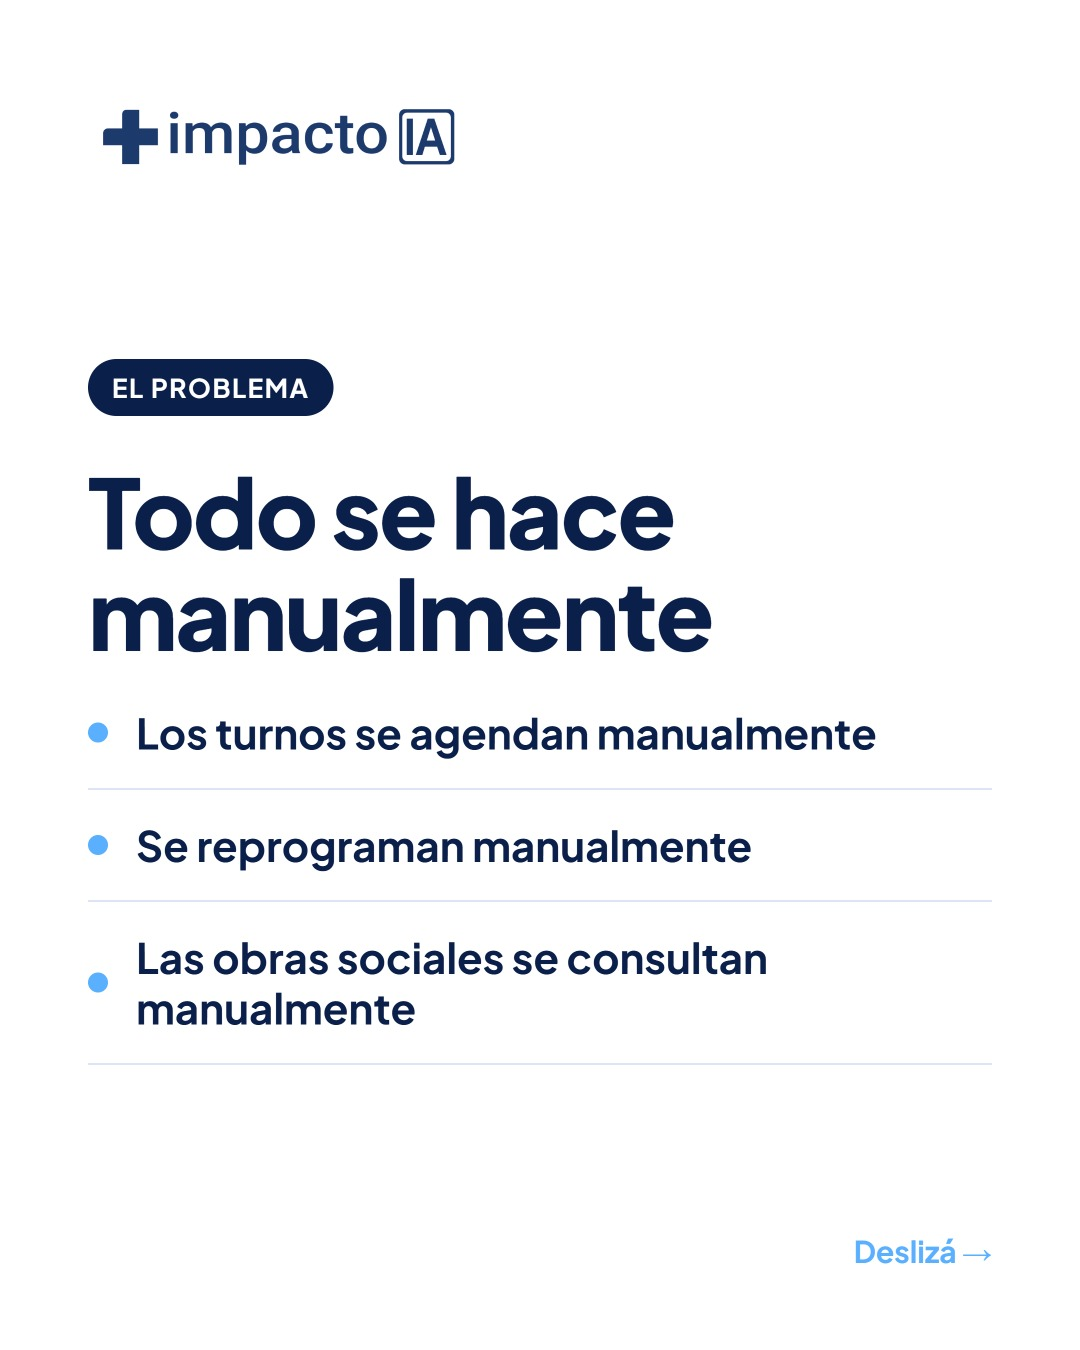
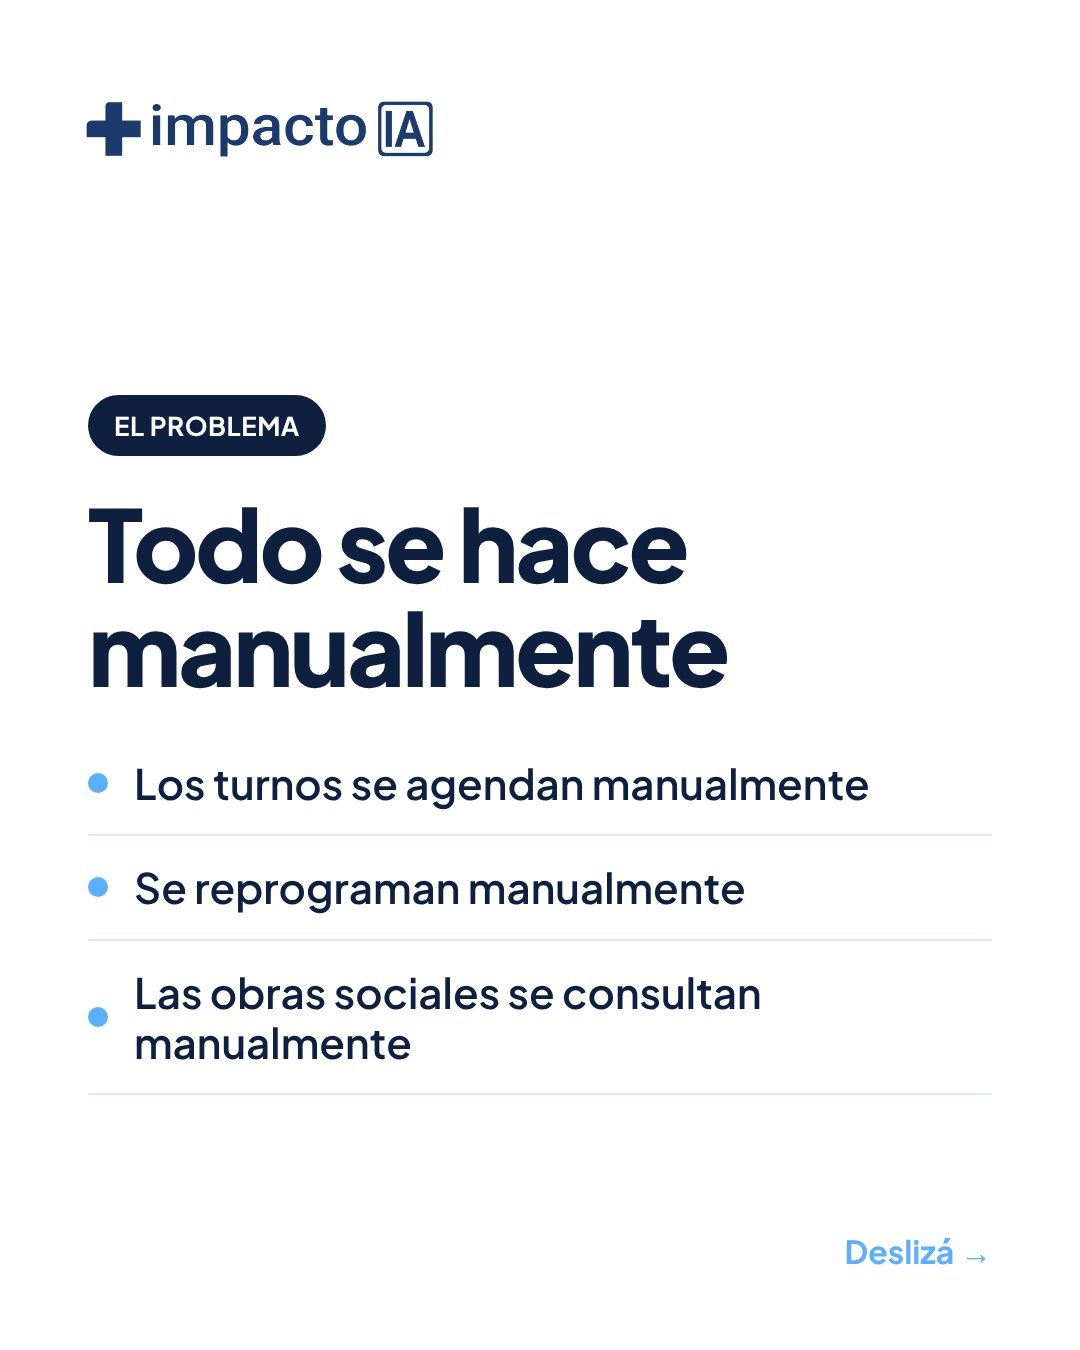
Rehacer placas con la web nueva y ajustar perfil de voz
Claude-Session: https://claude.ai/code/session_01P6REZjkjSGq7Tys6i2ciiy

Changed region(s): [[0.0611, 0.2489, 0.825, 0.8089], [0.0611, 0.0622, 0.4278, 0.1244], [0.7639, 0.9022, 0.8861, 0.9333]]

diff --git a/placas/placas.html b/placas/placas.html
@@ -1,0 +1,43 @@
+<!doctype html><html lang="es-AR"><head><meta charset="utf-8"><title>Placas +impactoIA</title>
+<style>
+@font-face{font-family:PJ;font-weight:500;src:url(assets/plus-jakarta-sans-latin-500-normal.woff2)}
+@font-face{font-family:PJ;font-weight:600;src:url(assets/plus-jakarta-sans-latin-600-normal.woff2)}
+@font-face{font-family:PJ;font-weight:700;src:url(assets/plus-jakarta-sans-latin-700-normal.woff2)}
+@font-face{font-family:PJ;font-weight:800;src:url(assets/plus-jakarta-sans-latin-800-normal.woff2)}
+:root{--navy:#0A1F4A;--ink:#0F1F40;--blue:#5CAEFF;--soft:#EAF0FD;--mut:#4F5F80}
+*{box-sizing:border-box;margin:0}
+body{background:#888;font-family:PJ,sans-serif}
+.s{width:1080px;height:1350px;position:relative;overflow:hidden;padding:88px;display:flex;flex-direction:column;margin-bottom:20px}
+.dark{background:var(--navy);color:#fff}.light{background:#fff;color:var(--ink)}
+.badge{width:112px;height:112px;align-self:flex-start}.logo{height:80px;width:auto;align-self:flex-start;margin-left:-16px}
+.body{margin-top:auto;margin-bottom:auto;padding-top:60px}
+.tag{display:inline-block;font-weight:700;font-size:26px;letter-spacing:.5px;text-transform:uppercase;padding:14px 26px;border-radius:40px;margin-bottom:34px}
+.dark .tag{background:var(--blue);color:var(--navy)}.light .tag{background:var(--ink);color:#fff}
+h1{font-weight:800;font-size:100px;line-height:1.04;letter-spacing:-3px}
+h1.m{font-size:92px}
+.sub{font-size:40px;line-height:1.3;font-weight:500;margin-top:34px;color:#B6C4EC}
+.light .sub{color:var(--mut)}
+.next{position:absolute;right:88px;bottom:78px;font-weight:700;font-size:32px;color:var(--blue)}
+.list{margin-top:34px}.list div{display:flex;gap:26px;align-items:center;font-weight:600;font-size:42px;line-height:1.2;padding:26px 0;border-bottom:2px solid #E3E9F6}
+.dot{flex:none;width:20px;height:20px;border-radius:50%;background:var(--blue)}
+.ck{flex:none;width:40px;color:var(--blue);font-size:44px;font-weight:700}
+.note{background:var(--soft);border-radius:28px;padding:34px 36px;font-weight:600;font-size:36px;line-height:1.3;margin-top:44px}
+.myth{font-weight:700;font-size:50px;line-height:1.2;color:#9FB3E6;text-decoration:line-through;margin:0 0 34px}
+.hr{height:2px;background:#1F3D80;margin:30px 0 36px}
+.tag.m{background:#243E83;color:#fff!important}
+.chips{display:flex;flex-wrap:wrap;gap:22px;margin-top:40px}
+.chip{background:#12306E;border:2px solid #1F3F85;border-radius:26px;padding:28px 38px;font-weight:700;font-size:38px}
+.stat{display:flex;gap:46px;align-items:center;margin-top:60px}
+.stat b{font-weight:800;font-size:230px;letter-spacing:-8px;color:var(--blue);line-height:1}
+.stat span{font-weight:700;font-size:42px;line-height:1.15}
+.src{font-size:26px;font-weight:500;color:#8DA2D6;margin-top:22px}
+.wa{display:inline-flex;gap:24px;align-items:center;background:var(--ink);color:#fff;font-weight:800;font-size:52px;padding:30px 48px;border-radius:70px;margin-top:44px}
+.web{font-weight:700;font-size:34px;color:var(--mut);margin-top:34px}
+</style></head><body>
+<section class="s dark" id="p1"><img class="badge" src="assets/badge.png"><div class="body"><span class="tag">Para clínicas y consultorios</span><h1>Tu clínica pierde pacientes por mensajes sin contestar</h1><p class="sub">Deslizá y mirá cómo resolverlo.</p></div><div class="next">Deslizá →</div></section>
+<section class="s light" id="p2"><img class="logo" src="assets/logo.png"><div class="body"><span class="tag">El problema</span><h1>Todo se hace manualmente</h1><div class="list"><div><i class="dot"></i>Los turnos se agendan manualmente</div><div><i class="dot"></i>Se reprograman manualmente</div><div><i class="dot"></i>Las obras sociales se consultan manualmente</div></div></div><div class="next">Deslizá →</div></section>
+<section class="s dark" id="p3"><img class="badge" src="assets/badge.png"><div class="body"><span class="tag m">Mito</span><p class="myth">“La IA es para empresas grandes y técnicas.”</p><div class="hr"></div><span class="tag">Realidad</span><h1>No necesitás saber de IA.</h1><p class="sub">La implementación la hacemos nosotros. Se conecta por API a tu sistema de gestión actual.</p></div><div class="next">Deslizá →</div></section>
+<section class="s light" id="p4"><img class="logo" src="assets/logo.png"><div class="body"><span class="tag">Tu Empleado IA</span><h1 class="m">Resolvé la recepción por vos</h1><div class="list"><div><span class="ck">✓</span>Agenda, confirma y reprograma turnos</div><div><span class="ck">✓</span>Verifica cobertura y copagos</div><div><span class="ck">✓</span>Gestiona órdenes, recetas y resultados</div></div><div class="note">Y si hace falta una persona, te pasa el caso con todo el contexto.</div></div><div class="next">Deslizá →</div></section>
+<section class="s dark" id="p5"><img class="badge" src="assets/badge.png"><div class="body"><span class="tag">Siempre activo</span><h1 class="m">Atiende las 24 horas en todos tus canales</h1><div class="chips"><div class="chip">WhatsApp</div><div class="chip">Web</div><div class="chip">Email</div><div class="chip">Redes sociales</div></div><div class="stat"><b>93%</b><span>de los turnos gestionados sin intervención humana</span></div><p class="src">Caso Cardiología Hiskin · abril de 2026</p></div><div class="next">Deslizá →</div></section>
+<section class="s light" id="p6"><img class="logo" src="assets/logo.png"><div class="body"><h1>Delegá tu recepción.</h1><p class="sub">Escribinos por WhatsApp y te decimos qué Empleado IA conviene poner a trabajar primero.</p><div class="wa"><svg width="64" height="64" viewBox="0 0 32 32"><path fill="#25D366" d="M16 3a13 13 0 0 0-11 19.8L3 29l6.4-2A13 13 0 1 0 16 3z"/><path fill="#fff" d="M12 9.5c-.4 0-.9.2-1.2.7-.4.6-.9 1.600-.2 3.100.8 1.700 2.100 3.300 3.900 4.300 1.800 1 3.200 1.100 4.200.8.800-.3 1.400-1 1.500-1.700.1-.5 0-.8-.3-.9l-2.400-1.200c-.3-.1-.6 0-.8.300l-.7.900c-.2.200-.4.300-.7.100-.9-.4-2.700-1.500-3.600-3.100-.1-.3 0-.5.200-.7l.600-.8c.2-.3.200-.5.100-.8l-1.100-2.400c-.1-.3-.4-.4-.7-.5z"/></svg>11 7650 5000</div><p class="web">masimpactoia.com · @masimpacto_ia</p></div></section>
+</body></html>

diff --git a/placas/render.py b/placas/render.py
@@ -1,0 +1,12 @@
+"""Renderiza placas.html a placa1..6.jpg (1080x1350). Uso: python3 placas/render.py"""
+import os
+from playwright.sync_api import sync_playwright
+here = os.path.dirname(os.path.abspath(__file__))
+with sync_playwright() as p:
+    b = p.chromium.launch(executable_path="/opt/pw-browsers/chromium") if os.path.exists("/opt/pw-browsers/chromium") else p.chromium.launch()
+    pg = b.new_page(viewport={"width": 1080, "height": 1350})
+    pg.goto("file://" + os.path.join(here, "placas.html"))
+    pg.evaluate("document.fonts.ready")
+    for i in range(1, 7):
+        pg.locator(f"#p{i}").screenshot(path=os.path.join(here, "..", f"placa{i}.jpg"), type="jpeg", quality=95)
+    b.close()

diff --git a/.claude/instagram/voice.md b/.claude/instagram/voice.md
@@ -28,8 +28,8 @@ figuran en ninguna de esas fuentes.
 - **Words I would never say out loud:** jerga técnica sin traducir (LLM, prompt, modelo, tokens), "revolucionario", "disruptivo", "reemplaza al personal", "diagnostica".
 - **Do I swear:** no
 - **Emoji in captions:** casi nunca (completar si querés uno fijo)
-- **Face on camera:** (completar)
-- **Voiceover or to-camera:** (completar)
+- **Face on camera:** por ahora no se habla a cámara. Podría grabar más adelante. Hasta entonces, los reels van sin cara: texto en pantalla, capturas de chat, voz en off o placas.
+- **Voiceover or to-camera:** voz en off o texto en pantalla (a cámara, solo si se confirma).
 - **Pace:** (completar)
 
 ## My positions
@@ -72,11 +72,11 @@ Caso de éxito verificado: **Cardiología Hiskin**, abril de 2026, WhatsApp en s
 - 47% de reducción de ausentismo
 - Caso completo: masimpactoia.com/es-ar/recursos/caso-cardiologia-hiskin
 
-(completar: otros casos o testimonios, si existen y se pueden nombrar)
+Por ahora no hay otros casos: usar solo Hiskin.
 
 ## The ask
 
-- **My keyword CTA, if I use one:** (completar; hoy el CTA es "Escribinos por WhatsApp")
+- **My keyword CTA, if I use one:** (elegir una; candidatas: TURNOS, RECEPCIÓN, DELEGÁ, EMPLEADO, DEMO. Mientras tanto el CTA es "Escribinos por WhatsApp")
 - **What the keyword sends them:** WhatsApp 11 7650 5000. Mensaje precargado: "Hola, quiero saber más sobre los Empleados IA para mi clínica."
 - **Where my link goes:** masimpactoia.com
 - **Alternativas de CTA que ya existen:**
